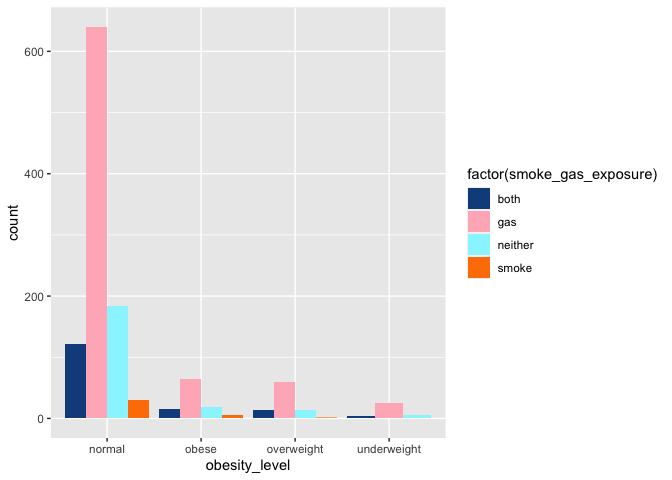
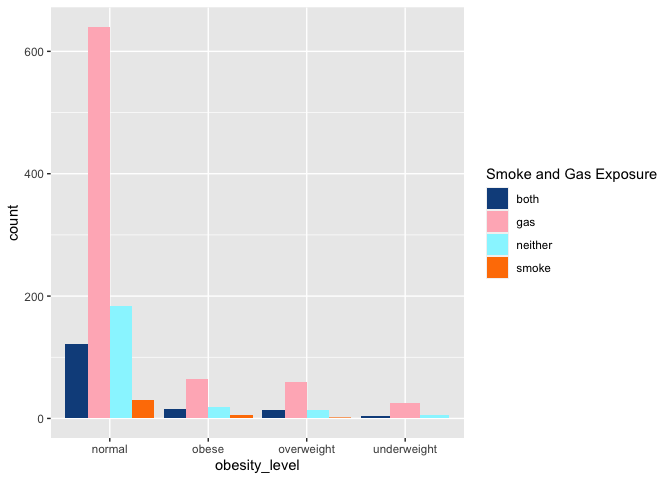
finalizing homework

diff --git a/02-assignment/README.md b/02-assignment/README.md
@@ -1,7 +1,7 @@
 Assignment 02: Data Viz and Wrangling
 ================
 Flemming Wu
-2022-10-05
+2022-10-06
 
 For this assignment, we will be analyzing data from USC’s Children’s
 Health Study. The learning objectives are to conduct data wrangling and
@@ -86,17 +86,14 @@ Impute missing values with averages within variables “male” and
 
 ``` r
 # look at which columns have NA count greater than 0
-which(colSums(is.na(dat)) > 0)
+names(which(colSums(is.na(dat)) > 0))
 ```
 
-    ##        agepft        height        weight           bmi        asthma 
-    ##             6             7             8             9            10 
-    ## father_asthma mother_asthma        wheeze      hayfever       allergy 
-    ##            12            13            14            15            16 
-    ##   educ_parent         smoke      gasstove           fev           fvc 
-    ##            17            18            20            21            22 
-    ##          mmef       no_24hr      pm2_5_fr 
-    ##            23            43            44
+    ##  [1] "agepft"        "height"        "weight"        "bmi"          
+    ##  [5] "asthma"        "father_asthma" "mother_asthma" "wheeze"       
+    ##  [9] "hayfever"      "allergy"       "educ_parent"   "smoke"        
+    ## [13] "gasstove"      "fev"           "fvc"           "mmef"         
+    ## [17] "no_24hr"       "pm2_5_fr"
 
 ``` r
 # select most important columns to impute NAs and assign to
@@ -431,11 +428,8 @@ str(dat)
 
 The variables appear to be stored in the correct data type.
 
-  
-Take closer look at key variables and calculate initial summary
-statistics.
-
-The key variables are fev, smoke and gas exposure, pm 2.5, and bmi.
+Take closer look at key variables (fev, smoke and gas exposure, pm 2.5,
+and bmi) and calculate initial summary statistics.
 
 According to this article from NCBI:
  <https://www.ncbi.nlm.nih.gov/pmc/articles/PMC2643211/>  
@@ -545,7 +539,7 @@ around 2050, with a standard deviation of about 300.
 ``` r
 ggplot(data = dat, mapping = aes(x = obesity_level, fill = factor(smoke_gas_exposure))) +
     geom_bar(position = "dodge") + scale_fill_manual(values = c("dodgerblue4",
-    "lightpink", "cadetblue1", "darkorange1"))
+    "lightpink", "cadetblue1", "darkorange1")) + labs(fill = "Smoke and Gas Exposure")
 ```
 
 ![](README_files/figure-gfm/bmi%20vs%20smoke/gas%20barchart-1.png)<!-- -->  
